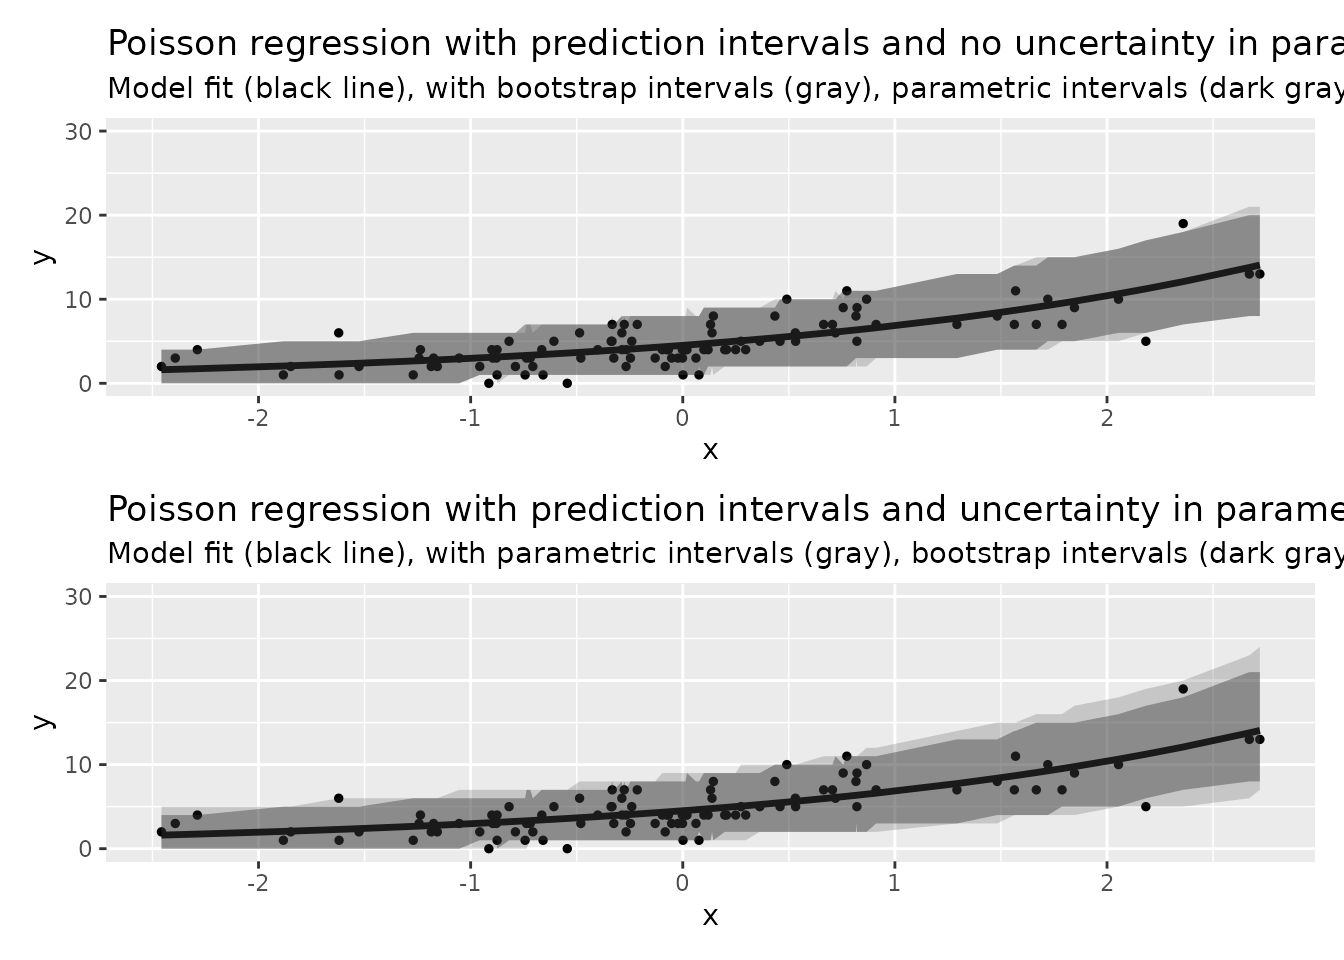
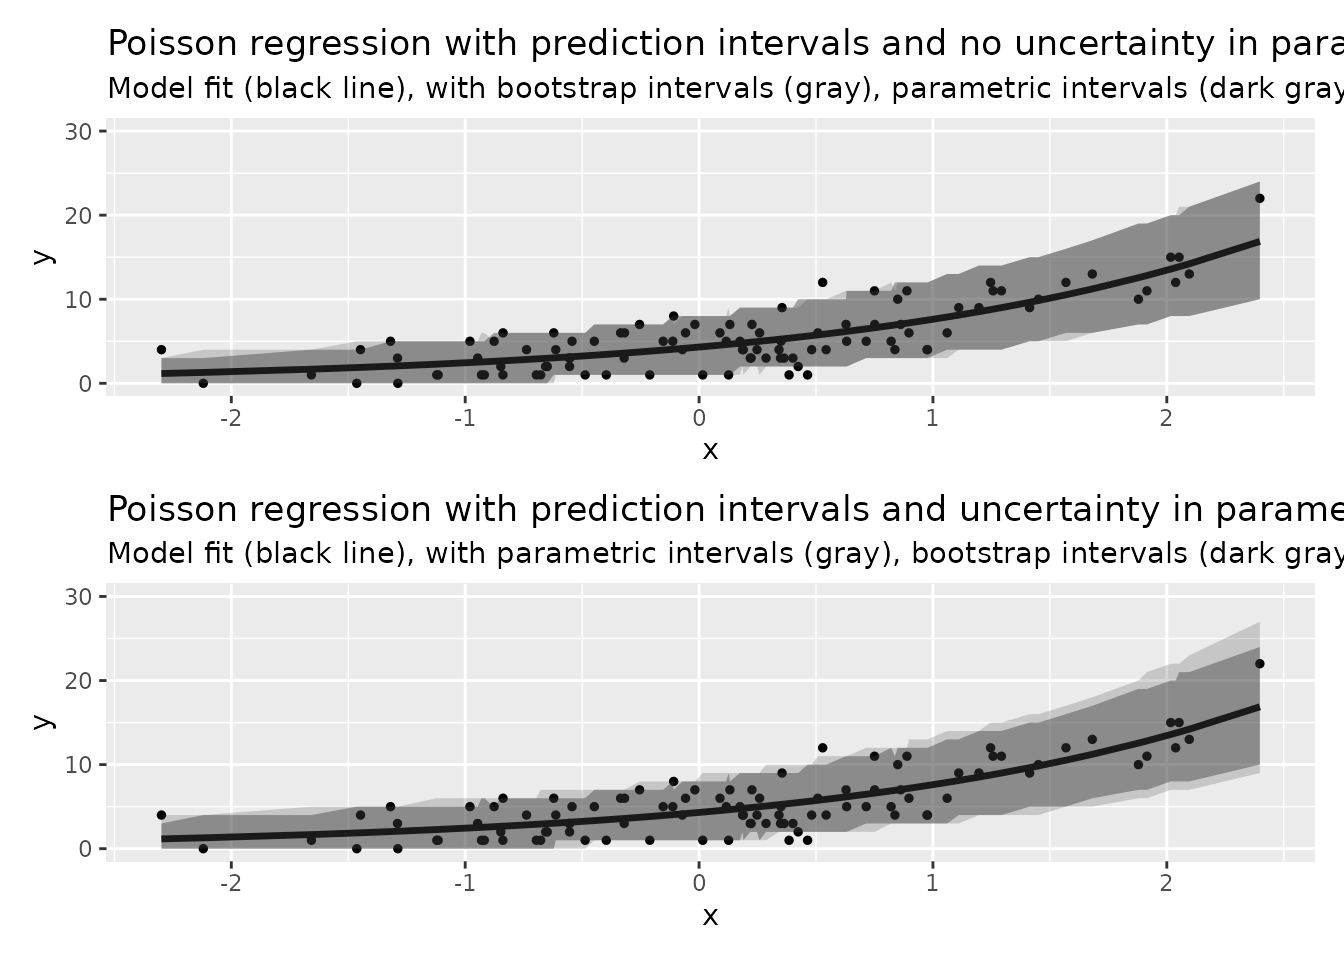
Built site for trending: 0.0.3.9000@37a2eb7

Changed region(s): [[0.0938, 0.6562, 0.9375, 0.9375], [0.125, 0.1875, 0.9375, 0.4375]]

diff --git a/articles/prediction_intervals.html b/articles/prediction_intervals.html
@@ -142,12 +142,12 @@
 <span class="co">#&gt; 20000): The response is not continuous, so Prediction Intervals are approximate</span>
 <span class="fu"><a href="https://rdrr.io/r/utils/head.html">head</a></span><span class="op">(</span><span class="va">dat1</span><span class="op">)</span>
 <span class="co">#&gt;             x  y      pred lpb upb</span>
-<span class="co">#&gt; 1  1.72086033 10  9.263425   4  15</span>
-<span class="co">#&gt; 2  2.18317707  5 11.236988   6  17</span>
-<span class="co">#&gt; 3  0.49044249 10  5.540340   2  10</span>
-<span class="co">#&gt; 4  0.06219693  3  4.632759   1   8</span>
-<span class="co">#&gt; 5 -0.71878643  3  3.343071   1   7</span>
-<span class="co">#&gt; 6  2.35914858 19 12.094182   7  18</span>
+<span class="co">#&gt; 1 -0.93034106  1  2.538928   0   6</span>
+<span class="co">#&gt; 2 -0.33534733  6  3.562055   1   7</span>
+<span class="co">#&gt; 3 -0.07144484  4  4.139264   1   8</span>
+<span class="co">#&gt; 4  2.03782205 12 13.747383   8  20</span>
+<span class="co">#&gt; 5 -1.28793915  0  2.071435   0   5</span>
+<span class="co">#&gt; 6  0.24779871  4  4.963899   2   9</span>
 
 <span class="co"># add intervals with trending (no uncertainty in parameters)</span>
 <span class="va">poisson_model</span> <span class="op">&lt;-</span> <span class="fu"><a href="../reference/trending_model.html">glm_model</a></span><span class="op">(</span><span class="va">y</span> <span class="op">~</span> <span class="va">x</span>, family <span class="op">=</span> <span class="st">"poisson"</span><span class="op">)</span>
@@ -158,12 +158,12 @@
 <span class="co">#&gt; &lt;trending_prediction&gt; 6 x 7</span>
 <span class="co">#&gt;       y       x estimate lower_ci upper_ci lower_pi upper_pi</span>
 <span class="co">#&gt;   &lt;int&gt;   &lt;dbl&gt;    &lt;dbl&gt;    &lt;dbl&gt;    &lt;dbl&gt;    &lt;dbl&gt;    &lt;dbl&gt;</span>
-<span class="co">#&gt; 1    10  1.72       9.26     8.29    10.4         5       15</span>
-<span class="co">#&gt; 2     5  2.18      11.2      9.82    12.9         6       17</span>
-<span class="co">#&gt; 3    10  0.490      5.54     5.14     5.97        2       10</span>
-<span class="co">#&gt; 4     3  0.0622     4.63     4.28     5.01        1        8</span>
-<span class="co">#&gt; 5     3 -0.719      3.34     3.00     3.72        1        7</span>
-<span class="co">#&gt; 6    19  2.36      12.1     10.5     14.0         7       18</span>
+<span class="co">#&gt; 1     1 -0.930      2.54     2.21     2.91        0        5</span>
+<span class="co">#&gt; 2     6 -0.335      3.56     3.22     3.95        1        7</span>
+<span class="co">#&gt; 3     4 -0.0714     4.14     3.79     4.53        1        8</span>
+<span class="co">#&gt; 4    12  2.04      13.7     12.2     15.5         8       20</span>
+<span class="co">#&gt; 5     0 -1.29       2.07     1.76     2.43        0        5</span>
+<span class="co">#&gt; 6     4  0.248      4.96     4.60     5.36        2        9</span>
 
 <span class="co"># add intervals with trending (uncertainty in parameters)</span>
 <span class="va">dat3</span> <span class="op">&lt;-</span> <span class="fu"><a href="https://rdrr.io/r/stats/predict.html">predict</a></span><span class="op">(</span><span class="va">fitted_model</span>, simulate_pi <span class="op">=</span> <span class="cn">FALSE</span>, alpha <span class="op">=</span> <span class="fl">0.1</span><span class="op">)</span>
@@ -172,12 +172,12 @@
 <span class="co">#&gt; &lt;trending_prediction&gt; 6 x 7</span>
 <span class="co">#&gt;       y       x estimate lower_ci upper_ci lower_pi upper_pi</span>
 <span class="co">#&gt;   &lt;int&gt;   &lt;dbl&gt;    &lt;dbl&gt;    &lt;dbl&gt;    &lt;dbl&gt;    &lt;dbl&gt;    &lt;dbl&gt;</span>
-<span class="co">#&gt; 1    10  1.72       9.26     8.29    10.4         4       16</span>
-<span class="co">#&gt; 2     5  2.18      11.2      9.82    12.9         5       19</span>
-<span class="co">#&gt; 3    10  0.490      5.54     5.14     5.97        2       10</span>
-<span class="co">#&gt; 4     3  0.0622     4.63     4.28     5.01        1        9</span>
-<span class="co">#&gt; 5     3 -0.719      3.34     3.00     3.72        1        7</span>
-<span class="co">#&gt; 6    19  2.36      12.1     10.5     14.0         5       20</span>
+<span class="co">#&gt; 1     1 -0.930      2.54     2.21     2.91        0        6</span>
+<span class="co">#&gt; 2     6 -0.335      3.56     3.22     3.95        1        7</span>
+<span class="co">#&gt; 3     4 -0.0714     4.14     3.79     4.53        1        8</span>
+<span class="co">#&gt; 4    12  2.04      13.7     12.2     15.5         7       22</span>
+<span class="co">#&gt; 5     0 -1.29       2.07     1.76     2.43        0        5</span>
+<span class="co">#&gt; 6     4  0.248      4.96     4.60     5.36        1        9</span>
 
 <span class="co"># plots</span>
 <span class="va">p1</span> <span class="op">&lt;-</span> <span class="fu"><a href="https://ggplot2.tidyverse.org/reference/ggplot.html">ggplot</a></span><span class="op">(</span><span class="va">dat1</span>, <span class="fu"><a href="https://ggplot2.tidyverse.org/reference/aes.html">aes</a></span><span class="op">(</span><span class="va">x</span>, <span class="va">y</span><span class="op">)</span><span class="op">)</span> <span class="op">+</span>
@@ -221,13 +221,13 @@
 <span class="co">#&gt; Warning in add_pi.glm(dat, fit, names = c("lpb", "upb"), alpha = 0.1, nsims =</span>
 <span class="co">#&gt; 20000): The response is not continuous, so Prediction Intervals are approximate</span>
 <span class="fu"><a href="https://rdrr.io/r/utils/head.html">head</a></span><span class="op">(</span><span class="va">dat1</span><span class="op">)</span>
-<span class="co">#&gt;             x  y     pred lpb upb</span>
-<span class="co">#&gt; 1 0.067381581  8 3.179530   0  11</span>
-<span class="co">#&gt; 2 0.210058079  0 3.661816   0  12</span>
-<span class="co">#&gt; 3 0.327049532 13 4.111391   0  14</span>
-<span class="co">#&gt; 4 0.004653445 11 2.988115   0  11</span>
-<span class="co">#&gt; 5 0.462973956  1 4.703486   0  15</span>
-<span class="co">#&gt; 6 0.782543364  2 6.453512   0  18</span>
+<span class="co">#&gt;           x  y      pred lpb upb</span>
+<span class="co">#&gt; 1 1.6271397  4 14.995543   4  31</span>
+<span class="co">#&gt; 2 1.8648148 24 18.855610   6  36</span>
+<span class="co">#&gt; 3 1.2965408 26 10.904123   2  25</span>
+<span class="co">#&gt; 4 0.6363666  3  5.771336   0  16</span>
+<span class="co">#&gt; 5 0.4645230  7  4.890481   0  14</span>
+<span class="co">#&gt; 6 1.8061481 24 17.819099   5  35</span>
 
 <span class="co"># add intervals with trending (no uncertainty in parameters)</span>
 <span class="va">quasipoisson_model</span> <span class="op">&lt;-</span> <span class="fu"><a href="../reference/trending_model.html">glm_model</a></span><span class="op">(</span><span class="va">y</span> <span class="op">~</span> <span class="va">x</span>, family <span class="op">=</span> <span class="fu"><a href="https://rdrr.io/r/stats/family.html">quasipoisson</a></span><span class="op">(</span>link <span class="op">=</span> <span class="st">"log"</span><span class="op">)</span><span class="op">)</span>
@@ -236,28 +236,28 @@
 <span class="va">dat2</span> <span class="op">&lt;-</span> <span class="fu"><a href="../reference/accessors.html">get_result</a></span><span class="op">(</span><span class="va">dat2</span><span class="op">)</span>
 <span class="fu"><a href="https://rdrr.io/r/utils/head.html">head</a></span><span class="op">(</span><span class="va">dat2</span><span class="op">[[</span><span class="fl">1</span><span class="op">]</span><span class="op">]</span><span class="op">)</span>
 <span class="co">#&gt; &lt;trending_prediction&gt; 6 x 7</span>
-<span class="co">#&gt;       y       x estimate lower_ci upper_ci lower_pi upper_pi</span>
-<span class="co">#&gt;   &lt;int&gt;   &lt;dbl&gt;    &lt;dbl&gt;    &lt;dbl&gt;    &lt;dbl&gt;    &lt;dbl&gt;    &lt;dbl&gt;</span>
-<span class="co">#&gt; 1     8 0.0674      3.18     2.40     4.22        0       11</span>
-<span class="co">#&gt; 2     0 0.210       3.66     2.84     4.72        0       12</span>
-<span class="co">#&gt; 3    13 0.327       4.11     3.26     5.19        0       13</span>
-<span class="co">#&gt; 4    11 0.00465     2.99     2.22     4.02        0       11</span>
-<span class="co">#&gt; 5     1 0.463       4.70     3.82     5.79        0       14</span>
-<span class="co">#&gt; 6     2 0.783       6.45     5.51     7.56        0       18</span>
+<span class="co">#&gt;       y     x estimate lower_ci upper_ci lower_pi upper_pi</span>
+<span class="co">#&gt;   &lt;int&gt; &lt;dbl&gt;    &lt;dbl&gt;    &lt;dbl&gt;    &lt;dbl&gt;    &lt;dbl&gt;    &lt;dbl&gt;</span>
+<span class="co">#&gt; 1     4 1.63     15.0     13.3     16.9         4       31</span>
+<span class="co">#&gt; 2    24 1.86     18.9     16.2     21.9         6       36</span>
+<span class="co">#&gt; 3    26 1.30     10.9      9.73    12.2         2       25</span>
+<span class="co">#&gt; 4     3 0.636     5.77     4.71     7.08        0       16</span>
+<span class="co">#&gt; 5     7 0.465     4.89     3.86     6.20        0       14</span>
+<span class="co">#&gt; 6    24 1.81     17.8     15.5     20.5         5       35</span>
 
 <span class="co"># add intervals with trending (uncertainty in parameters)</span>
 <span class="va">dat3</span> <span class="op">&lt;-</span> <span class="fu"><a href="https://rdrr.io/r/stats/predict.html">predict</a></span><span class="op">(</span><span class="va">fitted_model</span>, simulate_pi <span class="op">=</span> <span class="cn">FALSE</span>, alpha <span class="op">=</span> <span class="fl">0.1</span><span class="op">)</span>
 <span class="va">dat3</span> <span class="op">&lt;-</span> <span class="fu"><a href="../reference/accessors.html">get_result</a></span><span class="op">(</span><span class="va">dat3</span><span class="op">)</span>
 <span class="fu"><a href="https://rdrr.io/r/utils/head.html">head</a></span><span class="op">(</span><span class="va">dat3</span><span class="op">[[</span><span class="fl">1</span><span class="op">]</span><span class="op">]</span><span class="op">)</span>
 <span class="co">#&gt; &lt;trending_prediction&gt; 6 x 7</span>
-<span class="co">#&gt;       y       x estimate lower_ci upper_ci lower_pi upper_pi</span>
-<span class="co">#&gt;   &lt;int&gt;   &lt;dbl&gt;    &lt;dbl&gt;    &lt;dbl&gt;    &lt;dbl&gt;    &lt;dbl&gt;    &lt;dbl&gt;</span>
-<span class="co">#&gt; 1     8 0.0674      3.18     2.40     4.22        0       13</span>
-<span class="co">#&gt; 2     0 0.210       3.66     2.84     4.72        0       14</span>
-<span class="co">#&gt; 3    13 0.327       4.11     3.26     5.19        0       15</span>
-<span class="co">#&gt; 4    11 0.00465     2.99     2.22     4.02        0       13</span>
-<span class="co">#&gt; 5     1 0.463       4.70     3.82     5.79        0       16</span>
-<span class="co">#&gt; 6     2 0.783       6.45     5.51     7.56        0       19</span>
+<span class="co">#&gt;       y     x estimate lower_ci upper_ci lower_pi upper_pi</span>
+<span class="co">#&gt;   &lt;int&gt; &lt;dbl&gt;    &lt;dbl&gt;    &lt;dbl&gt;    &lt;dbl&gt;    &lt;dbl&gt;    &lt;dbl&gt;</span>
+<span class="co">#&gt; 1     4 1.63     15.0     13.3     16.9         3       34</span>
+<span class="co">#&gt; 2    24 1.86     18.9     16.2     21.9         5       41</span>
+<span class="co">#&gt; 3    26 1.30     10.9      9.73    12.2         1       27</span>
+<span class="co">#&gt; 4     3 0.636     5.77     4.71     7.08        0       18</span>
+<span class="co">#&gt; 5     7 0.465     4.89     3.86     6.20        0       17</span>
+<span class="co">#&gt; 6    24 1.81     17.8     15.5     20.5         4       39</span>
 
 <span class="co"># plots</span>
 <span class="va">p3</span> <span class="op">&lt;-</span> <span class="fu"><a href="https://ggplot2.tidyverse.org/reference/ggplot.html">ggplot</a></span><span class="op">(</span><span class="va">dat1</span>, <span class="fu"><a href="https://ggplot2.tidyverse.org/reference/aes.html">aes</a></span><span class="op">(</span><span class="va">x</span>, <span class="va">y</span><span class="op">)</span><span class="op">)</span> <span class="op">+</span>

diff --git a/articles/Introduction.html b/articles/Introduction.html
@@ -242,20 +242,20 @@
 <span class="co">#&gt; &lt;trending_prediction&gt; 14 x 8</span>
 <span class="co">#&gt;    date         day weekday      estimate lower_ci upper_ci lower_pi upper_pi</span>
 <span class="co">#&gt;    &lt;date&gt;     &lt;int&gt; &lt;fct&gt;           &lt;dbl&gt;    &lt;dbl&gt;    &lt;dbl&gt;    &lt;dbl&gt;    &lt;dbl&gt;</span>
-<span class="co">#&gt;  1 2020-05-15    58 rest_of_week   12682.   11390.   14122.     8759    16915</span>
-<span class="co">#&gt;  2 2020-05-16    59 weekend        10625.    9299.   12140.     7302    14651</span>
-<span class="co">#&gt;  3 2020-05-17    60 weekend        10262.    8956.   11759.     7329    14068</span>
-<span class="co">#&gt;  4 2020-05-18    61 monday         13840.   11749.   16303.     9717    19259</span>
-<span class="co">#&gt;  5 2020-05-19    62 rest_of_week   11036.    9782.   12450.     7746    15220</span>
-<span class="co">#&gt;  6 2020-05-20    63 rest_of_week   10659.    9416.   12066.     7334    14632</span>
-<span class="co">#&gt;  7 2020-05-21    64 rest_of_week   10295.    9064.   11693.     7204    14039</span>
-<span class="co">#&gt;  8 2020-05-22    65 rest_of_week    9943.    8724.   11333.     6789    13649</span>
-<span class="co">#&gt;  9 2020-05-23    66 weekend         8330.    7138.    9721.     5622    11489</span>
-<span class="co">#&gt; 10 2020-05-24    67 weekend         8045.    6872.    9419.     5546    11156</span>
-<span class="co">#&gt; 11 2020-05-25    68 monday         10851.    9048.   13012.     7400    15409</span>
-<span class="co">#&gt; 12 2020-05-26    69 rest_of_week    8652.    7486.   10001.     5941    11903</span>
-<span class="co">#&gt; 13 2020-05-27    70 rest_of_week    8357.    7204.    9694.     5839    11602</span>
-<span class="co">#&gt; 14 2020-05-28    71 rest_of_week    8071.    6933.    9396.     5552    11238</span></code></pre></div>
+<span class="co">#&gt;  1 2020-05-15    58 rest_of_week   12682.   11390.   14122.     8931    17243</span>
+<span class="co">#&gt;  2 2020-05-16    59 weekend        10625.    9299.   12140.     7453    14566</span>
+<span class="co">#&gt;  3 2020-05-17    60 weekend        10262.    8956.   11759.     7152    14145</span>
+<span class="co">#&gt;  4 2020-05-18    61 monday         13840.   11749.   16303.     9546    19410</span>
+<span class="co">#&gt;  5 2020-05-19    62 rest_of_week   11036.    9782.   12450.     7769    15132</span>
+<span class="co">#&gt;  6 2020-05-20    63 rest_of_week   10659.    9416.   12066.     7389    14550</span>
+<span class="co">#&gt;  7 2020-05-21    64 rest_of_week   10295.    9064.   11693.     7293    14153</span>
+<span class="co">#&gt;  8 2020-05-22    65 rest_of_week    9943.    8724.   11333.     7035    13519</span>
+<span class="co">#&gt;  9 2020-05-23    66 weekend         8330.    7138.    9721.     5737    11412</span>
+<span class="co">#&gt; 10 2020-05-24    67 weekend         8045.    6872.    9419.     5576    11076</span>
+<span class="co">#&gt; 11 2020-05-25    68 monday         10851.    9048.   13012.     7326    15113</span>
+<span class="co">#&gt; 12 2020-05-26    69 rest_of_week    8652.    7486.   10001.     5937    12089</span>
+<span class="co">#&gt; 13 2020-05-27    70 rest_of_week    8357.    7204.    9694.     5711    11292</span>
+<span class="co">#&gt; 14 2020-05-28    71 rest_of_week    8071.    6933.    9396.     5556    11166</span></code></pre></div>
 </div>
 <div id="example-of-failed-model-fitting" class="section level2">
 <h2 class="hasAnchor">

diff --git a/reference/accessors.html b/reference/accessors.html
@@ -337,7 +337,7 @@
 #&gt; </div><div class='input'><span class='fu'>get_formula</span><span class='op'>(</span><span class='va'>fitted_poisson</span><span class='op'>)</span>
 </div><div class='output co'>#&gt; [[1]]
 #&gt; y ~ x
-#&gt; &lt;environment: 0x55d4449a0640&gt;
+#&gt; &lt;environment: 0x558167234fd8&gt;
 #&gt; </div><div class='input'><span class='fu'>get_response</span><span class='op'>(</span><span class='va'>fitted_poisson</span><span class='op'>)</span>
 </div><div class='output co'>#&gt; [[1]]
 #&gt; [1] "y"
